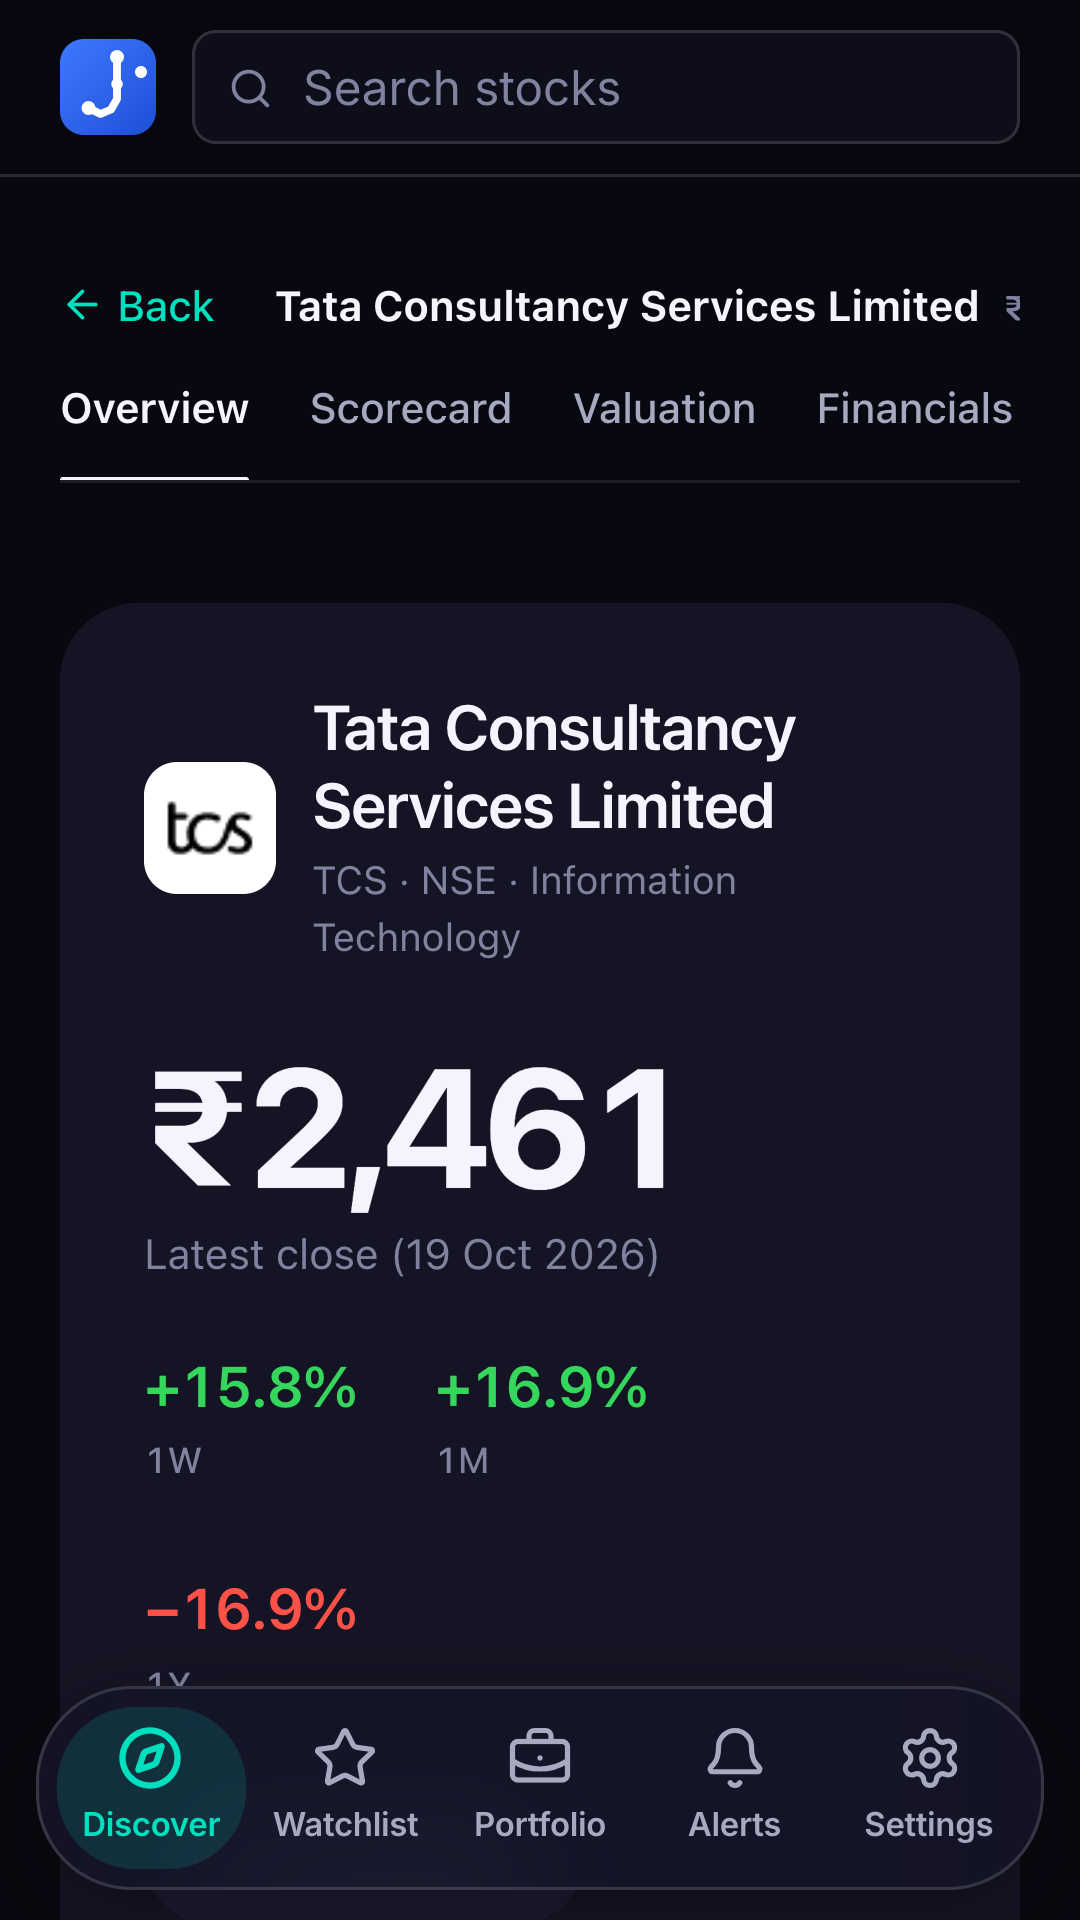
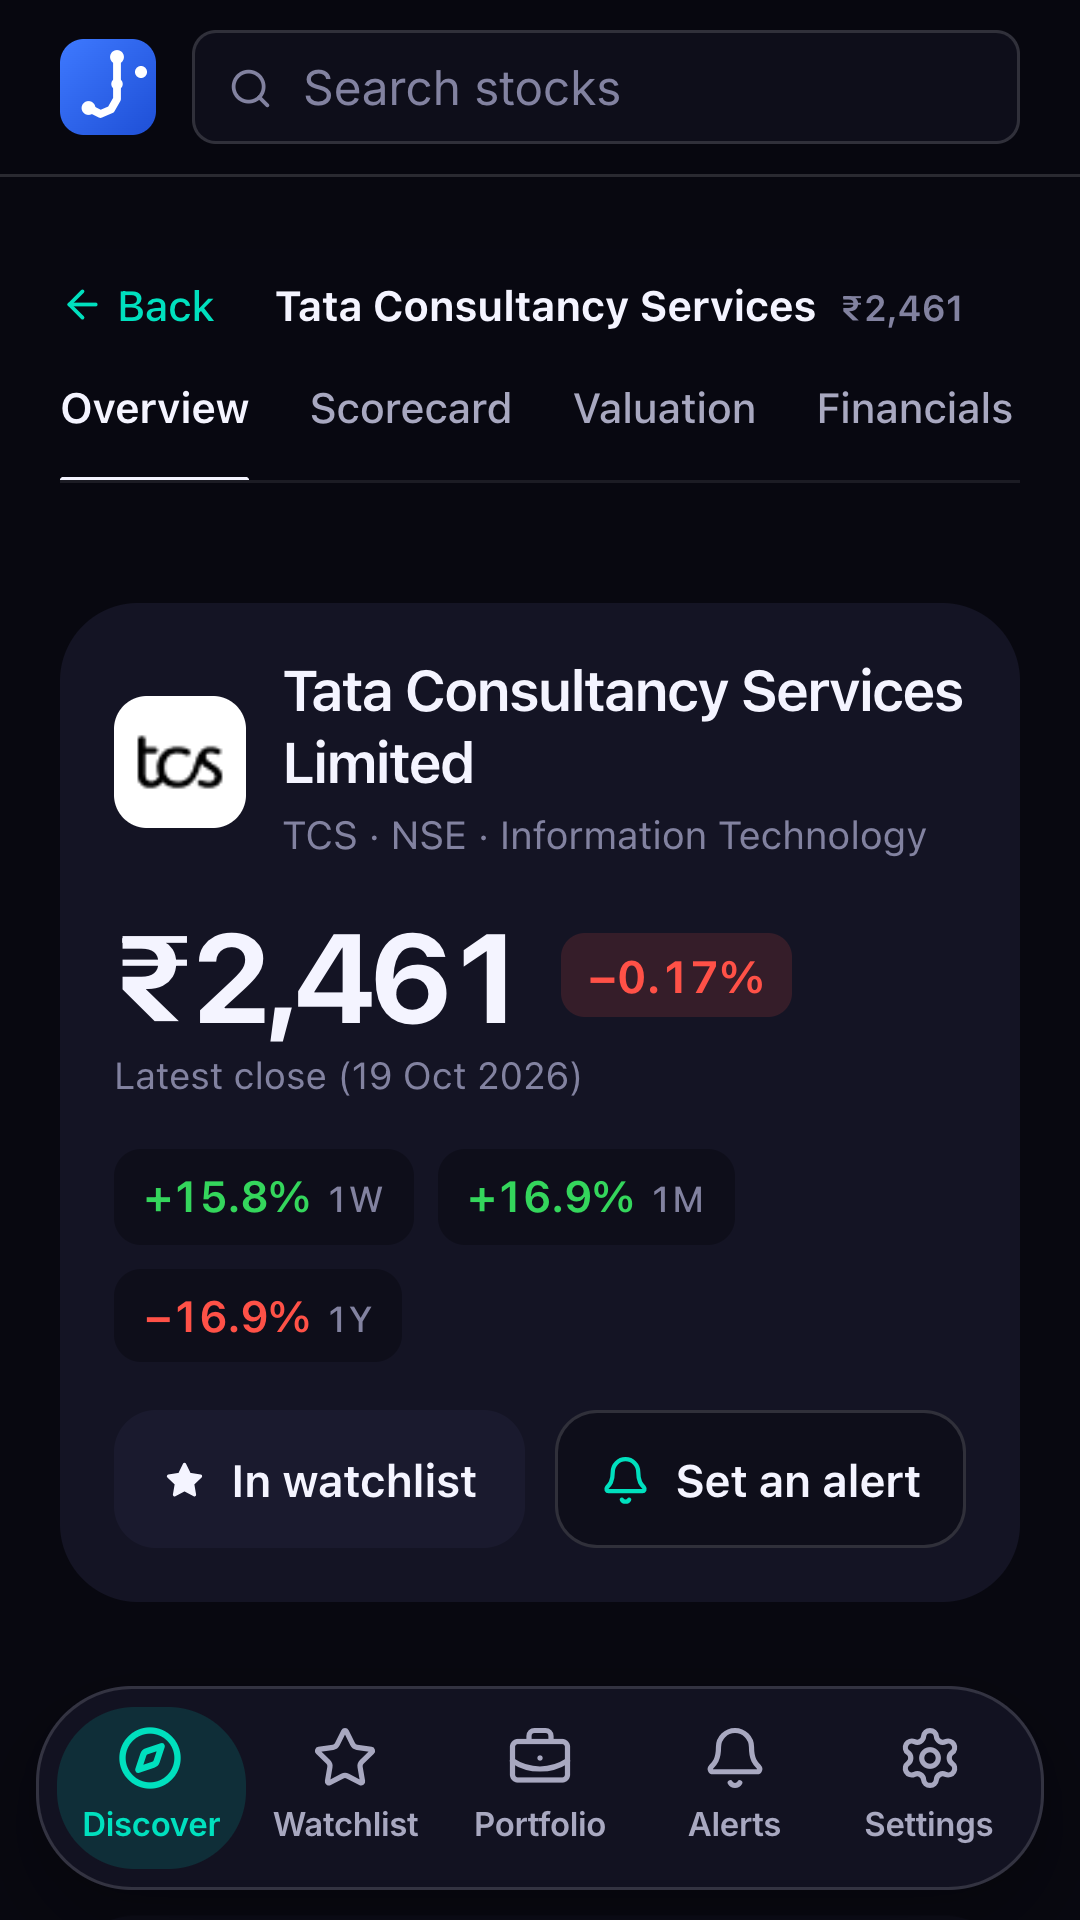
Phone: card figures and the company bar's price fit a small phone; Play pictures retaken

diff --git a/src/ResultsTable.jsx b/src/ResultsTable.jsx
@@ -1,7 +1,7 @@
 import { Fragment, Suspense, useState, useEffect, useRef } from "react";
 import { lazyPage } from "./lazyPage.js";
 import CompanyLogo from "./CompanyLogo.jsx";
-import { cardName } from "./stockName.js";
+import { cardName, splitUnit } from "./stockName.js";
 import { ArrowDown, ArrowUp, Check, Info, Columns3, Search, ArrowUpRight, SearchX, Star, ChevronDown, Funnel, Download } from "lucide-react";
 import { StarIcon, BellIcon, actionButtonStyle } from "./icons.jsx";
 import { useWatchlist, toggleWatch } from "./watchlist.js";
@@ -670,14 +670,19 @@ export default function ResultsTable({ matches, loading, onAnalyze, totalMatches
             // Coloured as the pills and stance words on a computer
             const cells = [
               ["Quality", <span key="q" title={researchTitle(stock.research)} style={{ color: qualityTone(quality).color }}>{quality == null ? "—" : Math.round(quality)}</span>, quality == null ? null : "/100"],
-              ["Research", <span key="r" title={researchTitle(stock.research)} aria-label={missingResearch ?? `Research score ${Math.round(overall)} — ${stock.research?.stance ?? "rated"}`} style={{ color: overallTone(overall).color }}>{overall == null ? (stock.research?.status === "review-required" ? "review" : stock.research?.status === "quality-only" ? "quality only" : "not rated") : Math.round(overall)}</span>, overall == null ? null : "/100"],
+              ["Research", <span key="r" title={researchTitle(stock.research)} aria-label={missingResearch ?? `Research score ${Math.round(overall)} — ${stock.research?.stance ?? "rated"}`} style={{ color: overallTone(overall).color }}>{overall == null ? "—" : Math.round(overall)}</span>, overall == null ? null : "/100"],
+              // (an unrated one is a dash: the note under the card says why —
+              // a word there was cut off on a small phone, "qual…")
               // What's being filtered on first: one of the screen's measures,
               // so the line fits a phone (the company page has the rest)
               ...[...columns.filter(def => filteredIds.includes(def.id)), ...columns.filter(def => !filteredIds.includes(def.id))].slice(0, 1).map(def => {
                 const v = colValue(stock, def.id);
+                // One decimal, and the unit set small as "/100" is, so it fits
+                // a third of a small phone ("71.23%" showed as "71.…")
+                const [figure, unit] = splitUnit(formatValue({ ...def, decimals: Math.min(def.decimals ?? 1, 1) }, v));
                 // Coloured as the table's cells are (strong ROCE, Piotroski 7+ green)
                 // a short name for a phone's column ("P/E TTM/FY" → "P/E")
-                return [def.short.replace(/\s+TTM\/FY$/, ""), <span key={def.id} style={{ color: valueColor(def, v) }}>{formatValue(def, v)}</span>];
+                return [def.short.replace(/\s+TTM\/FY$/, ""), <span key={def.id} style={{ color: valueColor(def, v) }}>{figure}</span>, unit];
               }),
             ];
             const adAfter = (i + 1) % PHONE_AD_EVERY === 0 && i + 1 < visible.length;

diff --git a/e2e/mobile.spec.js b/e2e/mobile.spec.js
@@ -220,3 +220,33 @@ test("M-H10 a company's tabs are pages of their own on a phone @phone", async ({
   await expect(page.locator("#sec-health")).toBeInViewport();
   await expect(tabs.getByRole("button", { name: "Financials" })).toHaveAttribute("aria-current", "true");
 });
+
+// 21 Oct 2026, seen in the Play Store pictures: a card's figures were cut
+// off on a small phone ("qual…" for an unrated research score, "71.…" for a
+// promoters' holding). Every figure on a card fits, at 360 wide.
+test("M-H11 a stock card's figures fit a small phone @phone", async ({ page, account, isMobile }) => {
+  test.skip(!isMobile, "the phone layout");
+  await page.setViewportSize({ width: 360, height: 740 });
+  await page.goto("/?strategy=dividend_aristocrats");
+  await expect(page.getByRole("option", { name: "Dividend Aristocrats", selected: true })).toBeVisible();
+  await page.waitForLoadState("networkidle");
+  const values = page.locator(".ph-stat-v");
+  await expect(values.first()).toBeVisible();
+  const cut = await values.evaluateAll(els => els.filter(e => e.scrollWidth > e.clientWidth + 1).map(e => e.textContent));
+  expect(await values.count()).toBeGreaterThan(5);
+  expect(cut, "figures cut off").toEqual([]);
+});
+
+// 21 Oct 2026, seen in the Play Store pictures: a long name ("Tata
+// Consultancy Services Limited") pushed the price out of the company page's
+// top bar, leaving a stray "₹". The name shortens; the price stays.
+test("M-H12 the company page's top bar keeps its price in view @phone", async ({ page, account, isMobile }) => {
+  test.skip(!isMobile, "the phone layout");
+  await page.setViewportSize({ width: 360, height: 740 });
+  await page.goto("/stock/TCS");
+  const bar = page.locator(".sd-bar-name");
+  const price = bar.locator("b");
+  await expect(price).toBeVisible();
+  const [b, p] = [await bar.boundingBox(), await price.boundingBox()];
+  expect(p.x + p.width, "the price ends inside the bar").toBeLessThanOrEqual(b.x + b.width + 1);
+});

diff --git a/src/stockName.test.js b/src/stockName.test.js
@@ -1,6 +1,6 @@
 // A company's name as a list card shows it (stockName.js): node src/stockName.test.js
 import assert from "node:assert/strict";
-import { cardName, initials } from "./stockName.js";
+import { cardName, initials, splitUnit } from "./stockName.js";
 
 assert.equal(cardName("Indiamart Intermesh Limited"), "Indiamart Intermesh", "'Limited' is the same for every company");
 assert.equal(cardName("Tata Consultancy Services Ltd."), "Tata Consultancy Services");
@@ -19,3 +19,18 @@ assert.equal(initials("BLS International Services Limited"), "BI", "two letters 
 assert.equal(initials("3M India Limited"), "3I");
 assert.equal(initials(""), "?");
 console.log("ok: a company's letters for its tile when it has no logo");
+
+// A card's measure: its unit set small, as "/100" is beside the scores, so
+// "71.2%" fits a third of a phone's width (21 Oct 2026: it showed "71.…")
+assert.deepEqual(splitUnit("71.2%"), ["71.2", "%"]);
+assert.deepEqual(splitUnit("+12.3%"), ["+12.3", "%"]);
+assert.deepEqual(splitUnit("−4.1%"), ["−4.1", "%"]);
+assert.deepEqual(splitUnit("19.4x"), ["19.4", "x"]);
+assert.deepEqual(splitUnit("7/9"), ["7", "/9"]);
+assert.deepEqual(splitUnit("8/10"), ["8", "/10"]);
+assert.deepEqual(splitUnit("147.1K"), ["147.1K", null], "a compact ₹ Cr figure keeps its letter");
+assert.deepEqual(splitUnit("₹1,234"), ["₹1,234", null]);
+assert.deepEqual(splitUnit("36.6 L"), ["36.6 L", null]);
+assert.deepEqual(splitUnit("—"), ["—", null]);
+assert.deepEqual(splitUnit(null), ["—", null]);
+console.log("ok: a measure's unit set apart from its number");

diff --git a/src/StockDetail.jsx b/src/StockDetail.jsx
@@ -1,4 +1,5 @@
 import { useState, useEffect, useMemo, useRef } from "react";
+import { cardName } from "./stockName.js";
 import { SHOW_TAB, usePhone } from "./phoneTabs.js";
 import { NotebookPen, Check, X, TriangleAlert, LoaderCircle, ArrowLeft, ArrowUpRight, CalendarDays, CircleCheck, Layers, ArrowRight } from "lucide-react";
 import { api } from "./api.js";
@@ -657,7 +658,7 @@ export default function StockDetail({ symbol, account, onBack, backTo = "Discove
       <div data-sticky-top className="sd-bar">
         <div className="sd-bar-row">
           <button type="button" onClick={onBack} title={`Back to ${backTo}`} className="sd-back"><ArrowLeft size={15} aria-hidden="true" /> Back</button>
-          <span className="sd-bar-name">{data.name}{price > 0 && <b>{fmtRs(price)}</b>}</span>
+          <span className="sd-bar-name"><span className="sd-bar-title">{cardName(data.name)}</span>{price > 0 && <b>{fmtRs(price)}</b>}</span>
           <SectionNav ready={!!m} phone={isPhone} phoneTab={phoneTab} onPhoneTab={showPhoneTab} />
         </div>
       </div>

diff --git a/src/index.css b/src/index.css
@@ -1265,7 +1265,9 @@ button:focus-visible, input:focus-visible, select:focus-visible, textarea:focus-
   .sd-snap { grid-template-columns: minmax(0, 1fr); }
   .sd-bar-row { flex-wrap: wrap; row-gap: 0; padding-top: var(--sp-2); }
   .sd-bar-name { display: flex; align-items: baseline; gap: var(--sp-2); flex: 1; min-width: 0; font-size: var(--fs-md); font-weight: 650; color: var(--t1); overflow: hidden; white-space: nowrap; text-overflow: ellipsis; }
-  .sd-bar-name b { font-size: var(--fs-xs); color: var(--t3); font-weight: 600; }
+  .sd-bar-name b { flex: none; font-size: var(--fs-xs); color: var(--t3); font-weight: 600; }
+  /* the name shortens with "…", never the price (a flex row's text doesn't) */
+  .sd-bar-title { min-width: 0; overflow: hidden; text-overflow: ellipsis; }
   .sd-tabs { flex-basis: 100%; gap: var(--sp-5); padding-left: 0; }
   .sd-h2 { margin-top: var(--sp-8); font-size: var(--fs-xl); }
   .sd-range { grid-column: 1 / -1; }

diff --git a/src/stockName.js b/src/stockName.js
@@ -8,3 +8,13 @@ export function initials(name) {
   const words = cardName(name).split(/[\s&-]+/).filter(w => w && !/^(the|of|and)$/i.test(w));
   return words.slice(0, 2).map(w => w[0].toUpperCase()).join("") || "?";
 }
+
+// A measure's figure for a card's tray (ResultsTable.jsx): the unit ("%",
+// "x", "/9") apart, to be set small beside the number as "/100" is beside the
+// scores, so the number fits a third of a phone's width (21 Oct 2026: a
+// promoters' holding showed as "71.…")
+export function splitUnit(text) {
+  const s = String(text ?? "—");
+  const m = /^(.*\d)(%|x|\/\d+)$/.exec(s);
+  return m ? [m[1], m[2]] : [s, null];
+}

diff --git a/replica/build-log.md b/replica/build-log.md
@@ -19,3 +19,4 @@
 - No figure twice · 2026-10-20 · done · An audit of TCS's whole page, section by section, for figures shown in more than one place. Fixed: the "Key Numbers" box repeated P/E, P/B, yield, ROE, ROCE, D/E and market cap from the Overview, interest cover and free cash flow from Financial health, payout from Dividends and FII/DII from Holdings — an older quarter's (9.1%) beside the newer one (9.01%) — it's now "More figures", with only what's nowhere else; About repeated the sector, industry and market cap; the chart's 1Y change (−18.4%) started a day later than the returns table's (−16.9%) and now starts from the same close; a second strengths-and-cautions list under the investment case disagreed with At a glance and is gone; the chart listed the model levels the Levels section lists — the lines carry their values instead; an Events card repeated half of What changed recently, which replaces it in the Overview (with record dates, and announced dates up to two months ahead); the earnings call repeated the results sentence; Technicals' R1–R3 (daily pivots) shared names with the chart's monthly pivots and now say so. Kept on purpose: the summary card's returns beside the returns table, P/E in the peer and sector comparisons, the quality score at the top and in the Scorecard. Tests: npm test; all 51 browser tests.
 - No figure twice, second pass · 2026-10-20 · done · The owner's rule after the first pass: one place for every figure. A second audit of TCS's page, this time with the text outside the numbered sections (the valuation inputs and cards). Fixed: "What to review in the next filing" restated sales growth, margin, free cash flow, debt/equity and the promoters' holding — now questions, each with a link to the section that holds the figure; the summary card's 1W/1M/1Y returns were taken out and put back the same day — the owner wants them under the price; the valuation area said the P/E multiple and its basis four times (a note, the fair-value card, a "two comparisons" box, the P/E history) and showed a margin-of-safety price that is reference level 1 and a second 52-week range — each once now; the price-position line named the price, the stop-loss and fair value listed right below it (a figure-free line, levels.js `gist`; the watchlist, portfolio and export keep the full one); the sizing worksheet's price column repeated the three levels; Financial health's lead and notes repeated its own bars, the key figures' debt to equity and the Scorecard's score; Dividends' lead repeated the yield tile; Holdings' bar key repeated the table's latest column and change; What changed recently repeated the week's change, the 52-week high or low and the promoters' holding (now "rose sharply", "near its 52-week high", the change in points); At a glance quoted the net cash and the promoters' holding (research.js reasons now say it without the amounts); Peers showed a second sector median P/E (24.9×) that disagreed with Against its sector's (21.5) — gone. Kept on purpose: comparisons (Against its sector, the peers table, the yield against other payers) show this company's figure beside the others'; the levels list keeps the latest close as its anchor; the valuation inputs show the values they edit. Tests: src/recentChanges.test.js and server/research-test.js (gist) first; npm test; the browser tests.
 - Screener: bank filters and filter order · 2026-10-20 · done (fix #5, #6) · #5: gross and net NPA, provision cover, CET1, ROA, cost-to-income, credit cost and loan and deposit growth were already filters (since 9 Oct; 41 banks have them), but nothing led to them; added Tier 1 capital and the credit-deposit ratio, and a "Sound Banks" strategy under Quality & growth (gross NPA ≤ 2%, net NPA ≤ 0.5%, CET1 ≥ 12%, ROA ≥ 1%; 15 banks on 19 Oct) with its own mark. Not done: CASA — NSE's results filings don't carry it. #6: up and down arrows on each filter row (market cap size and sector stay pinned at the top); the results table's filter columns follow the order; bigger buttons on touch screens. Tests: src/filterOrder.test.js and the smoke test's Sound Banks checks (first); F02-H6; npm test; all browser tests.
+- Phone: figures that fit, and new Play pictures · 2026-10-21 · done · Seen while retaking the Play Store pictures (the old ones showed the phone app before this week's redesign): a stock card cut off an unrated research score ("qual…" for "quality only") and a promoters' holding ("71.…") at 360 wide — an unrated score is now "—" (the note under the card says why) and a measure shows one decimal with its unit set small ("71.3%"), stockName.js `splitUnit`; the company page's top bar let a long name push the price out ("…Limited ₹") — the name shortens with "…" and drops "Limited", the price stays. Pictures retaken (scripts/play-assets.mjs): Dividend Aristocrats for the stock list, the Scorecard tab in place of Valuation, you@example.com on Settings. Tests: src/stockName.test.js, M-H11 and M-H12 (all first).

diff --git a/replica/launch/play-listing.md b/replica/launch/play-listing.md
@@ -63,6 +63,12 @@ Research
 | `feature-graphic.png` | Feature graphic | 1024 × 500 |
 | `1-strategies.png` … `6-settings.png` | Phone screenshots (2–8 allowed) | 1080 × 1920 |
 
+Retaken 21 Oct 2026 after the phone redesign: strategies, a strategy's
+stocks (Dividend Aristocrats: its name fits the wheel), the company page, its
+Scorecard tab (not Valuation, whose price levels open on a red "below the
+stop-loss level" that reads as a trade call in a store), watchlist and
+settings (as you@example.com).
+
 ## App content (Play Console → Policy → App content)
 
 - **Privacy policy** — the URL above.
